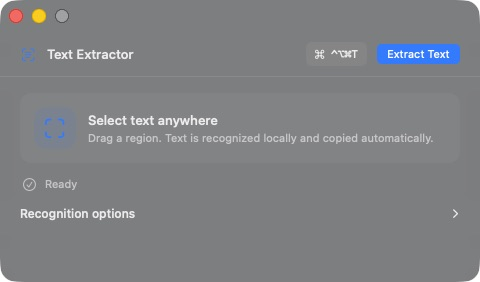
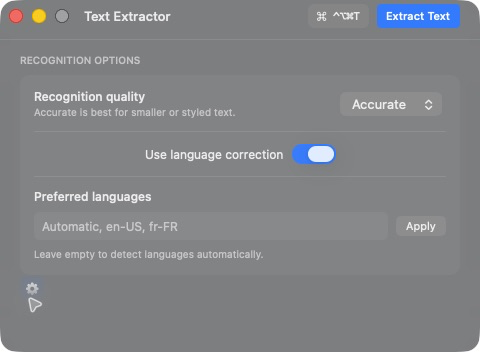
Release: refresh 1.7.0 screenshots

diff --git a/CHANGELOG.md b/CHANGELOG.md
@@ -32,6 +32,8 @@ Notable changes are documented here. The project follows semantic versioning aft
 - Removed the misleading transfer-level priority control because rclone does not expose safe reprioritization for an active file, and compacted transfer progress, ETA, direction, and comparison status.
 - Unified utility-window insets, translucent titlebar/body material, compact sizing, card hover treatment, and thin overlay scroll indicators.
 - Enforced one running MacPowerToys process and one window per utility while still allowing multiple ruler overlays.
+- Moved Color Picker settings into a focused view and added a confirmed clear-all action that preserves projects.
+- Moved Text Extractor recognition settings to an unobtrusive floating control while keeping extraction as the primary titlebar action.
 - Credited rclone in Cloud Sync About and documentation.
 
 ### Fixed
@@ -39,6 +41,7 @@ Notable changes are documented here. The project follows semantic versioning aft
 - Prevented destination-folder contents and resumed bytes from inflating a transfer plan beyond the source data.
 - Restored the Cloud Sync transfer Changes tab and aligned its tab strip with the detail content.
 - Removed excess top spacing from Logs and clipped top content from compact utility windows.
+- Aligned the launcher card grid with the sidebar search field.
 
 ### Security
 

diff --git a/README.md b/README.md
@@ -125,9 +125,9 @@ MacPowerToys is available under the [MIT License](LICENSE).
 ## Screenshots
 
 <p align="center">
-  <img src="docs/screenshots/macpowertoys-launcher.png" width="760" alt="MacPowerToys launcher showing the built-in utilities">
+  <img src="docs/screenshots/macpowertoys-launcher.png" width="760" height="713" alt="MacPowerToys launcher with its aligned utility grid">
 </p>
 
 <p align="center">
-  <img src="docs/screenshots/text-extractor.png" width="480" alt="Compact Text Extractor utility window">
+  <img src="docs/screenshots/text-extractor.png" width="480" height="352" alt="Compact Text Extractor recognition settings">
 </p>
